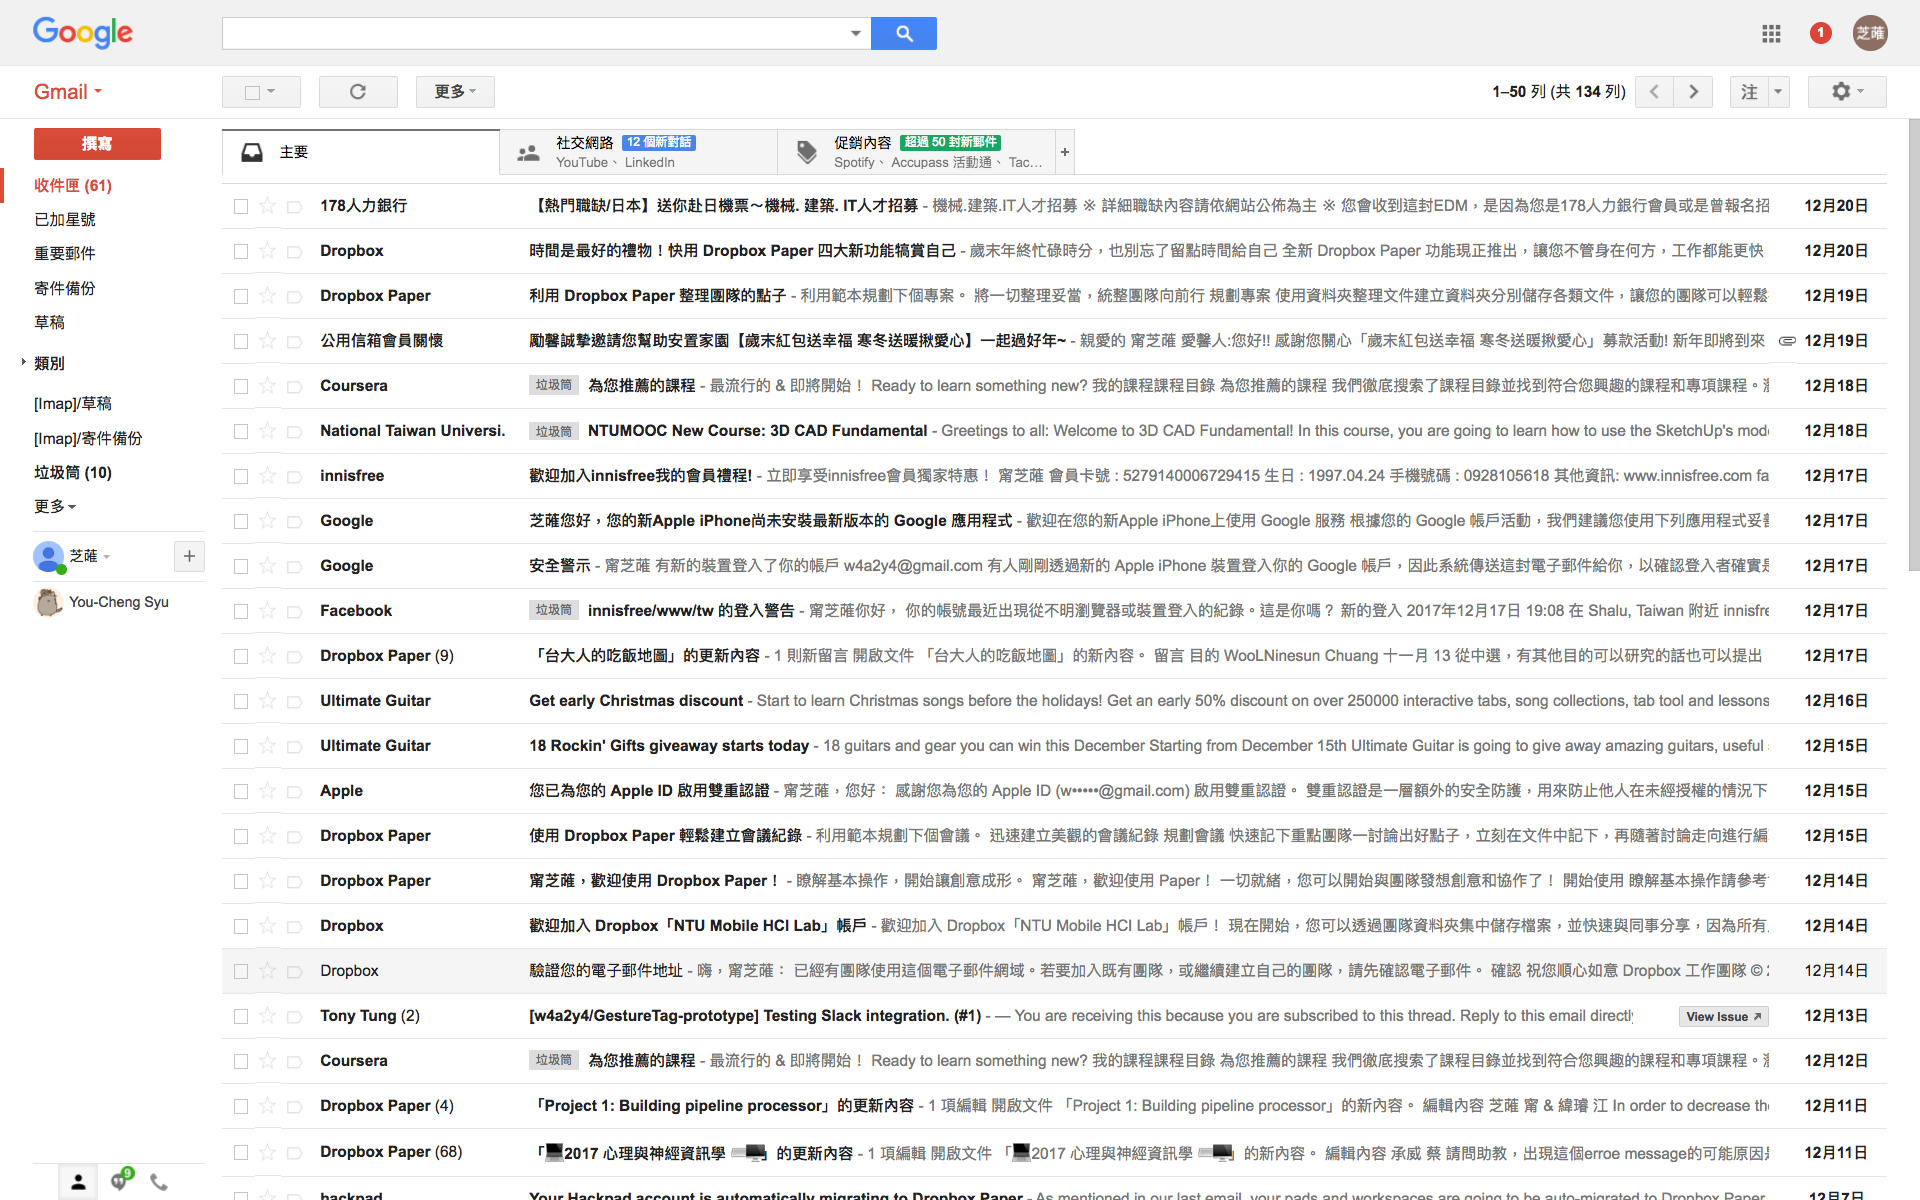
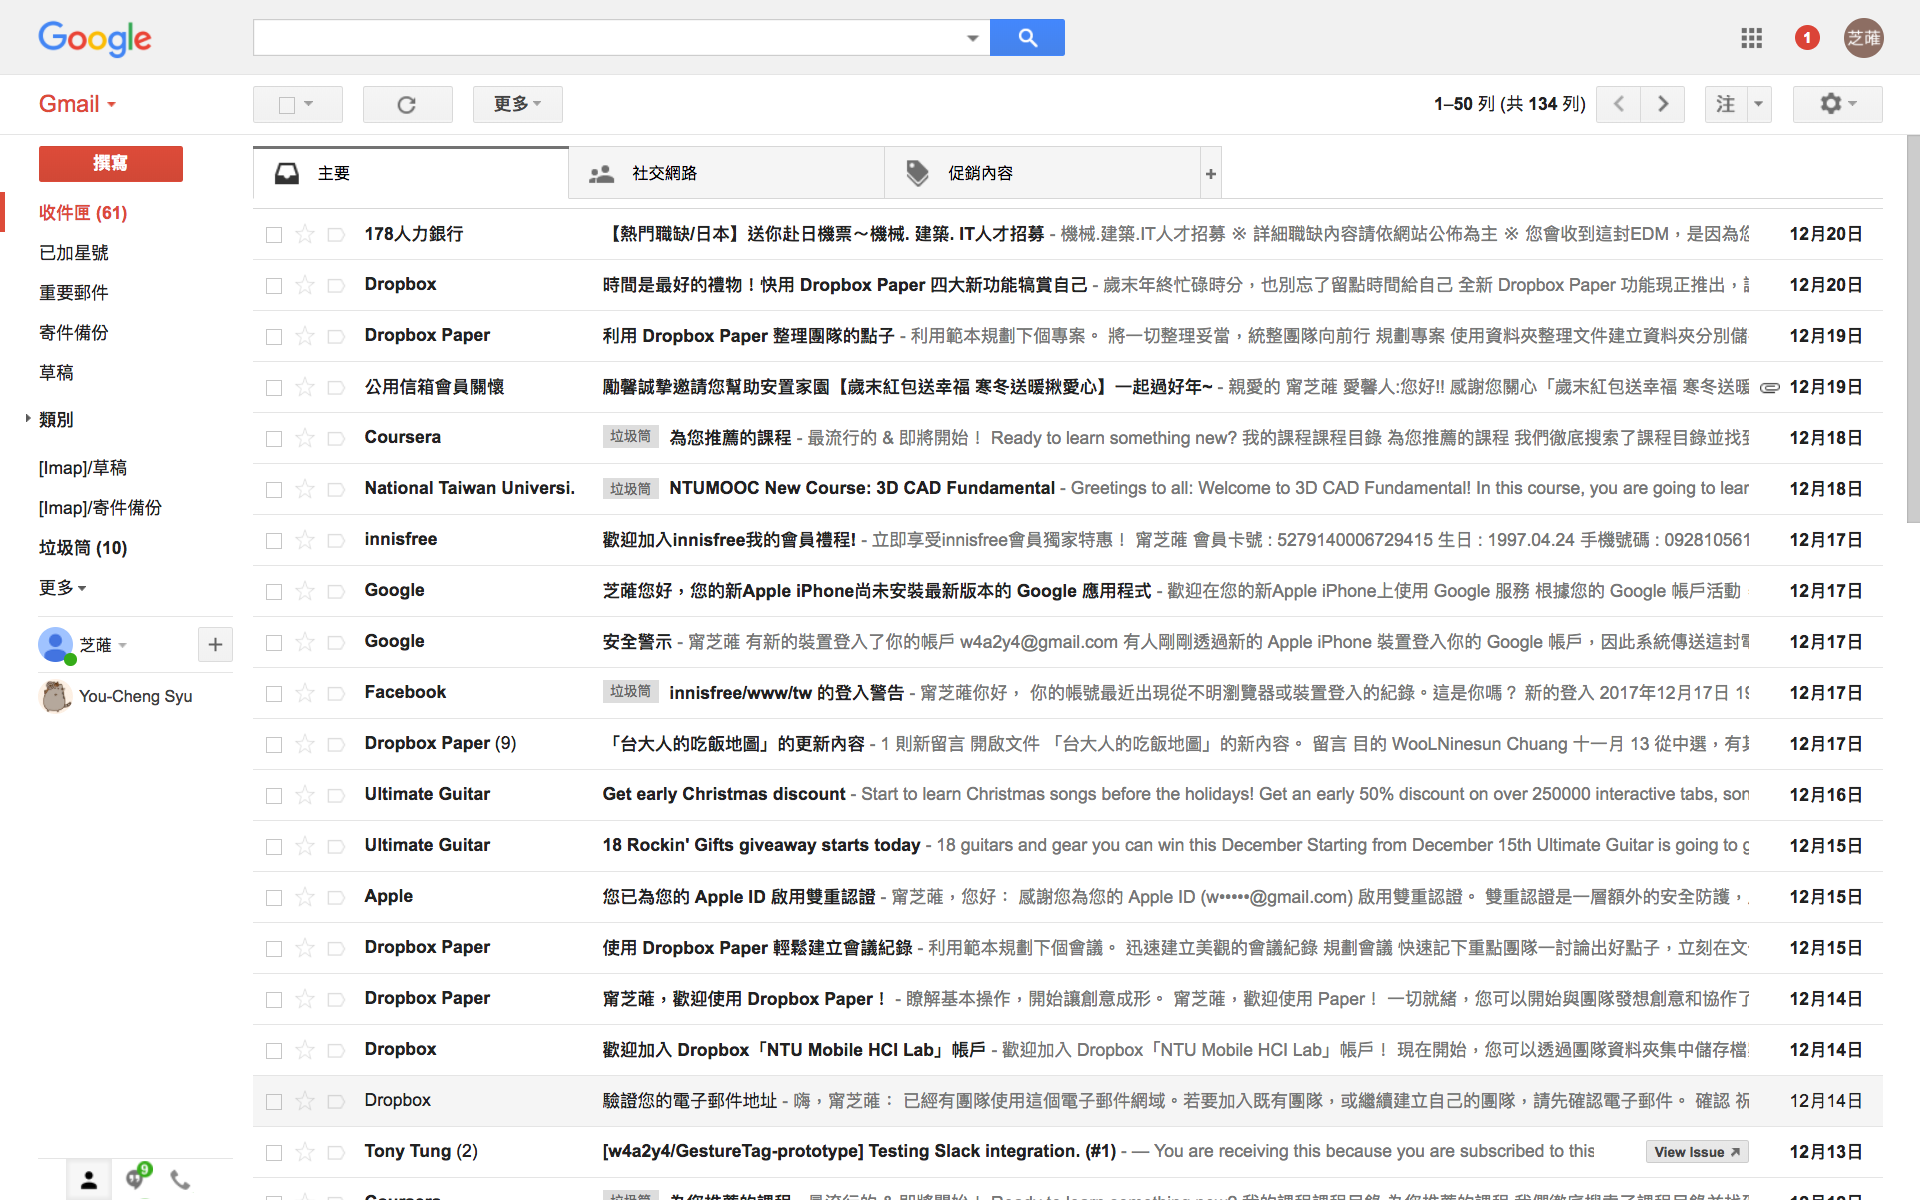
html structure

diff --git a/gmail.html b/gmail.html
@@ -1,12 +1,92 @@
 <html>
-    <head>
-        <script src="http://code.jquery.com/jquery-3.2.1.min.js"></script>
-        <link rel="stylesheet" type="text/css" href="resources/gmail.css">
-    </head>
+	<head>
+		<script src="http://code.jquery.com/jquery-3.2.1.min.js"></script>
+		<link rel="stylesheet" type="text/css" href="resources/gmail.css">
+	</head>
 
-    <body>
-        
-        <script src="/socket.io/socket.io.js"></script>
-        <script src="resources/gmail.js"></script>
-    </body>
+	<body>
+
+		<div id="header">
+			<div id="google"></div>
+			<div id="search-bar"></div>
+			<div id="search-icon"></div>
+			<div id="nine-grid"></div>
+			<div id="notify"></div>
+			<div id="profile"></div>
+		</div>
+
+		<div id="option-bar">
+			<div id="gmail"></div>
+			<div id="left-block">
+				<div id="checkbox"></div>
+				<div id="reload"></div>
+				<div id="more"></div>
+			</div>
+			<div id="right-block">
+				<div id="page-up"></div>
+				<div id="page-down"></div>
+				<div id="language"></div>
+				<div id="setting"></div>
+			</div>
+		</div>
+
+		<div id="side-bar">
+			<div id="new-mail"></div>
+			<div id="nav">
+				<button></button>
+				<button></button>
+				<button></button>
+				<button></button>
+				<button></button>
+				<button></button>
+				<button></button>
+				<button></button>
+				<button></button>
+				<button></button>
+			</div>
+			<div id="hangouts">
+				<div id="me">
+					<button></button>
+				</div>
+				<div id="friend"></div>
+				<div id="hangouts-footer">
+					<button></button>
+					<button></button>
+					<button></button>
+				</div>
+			</div>
+		</div>
+
+		<div id="inbox">
+			<div id="tab-bar">
+				<div class="tab"></div>
+				<div class="tab"></div>
+				<div class="tab"></div>
+			</div>
+
+			<div class="mail"></div>
+			<div class="mail"></div>
+			<div class="mail"></div>
+			<div class="mail"></div>
+			<div class="mail"></div>
+			<div class="mail"></div>
+			<div class="mail"></div>
+			<div class="mail"></div>
+			<div class="mail"></div>
+			<div class="mail"></div>
+			<div class="mail"></div>
+			<div class="mail"></div>
+			<div class="mail"></div>
+			<div class="mail"></div>
+			<div class="mail"></div>
+			<div class="mail"></div>
+			<div class="mail"></div>
+			<div class="mail"></div>
+			<div class="mail"></div>
+
+		</div>
+
+		<script src="/socket.io/socket.io.js"></script>
+		<script src="resources/gmail.js"></script>
+	</body>
 </html>
